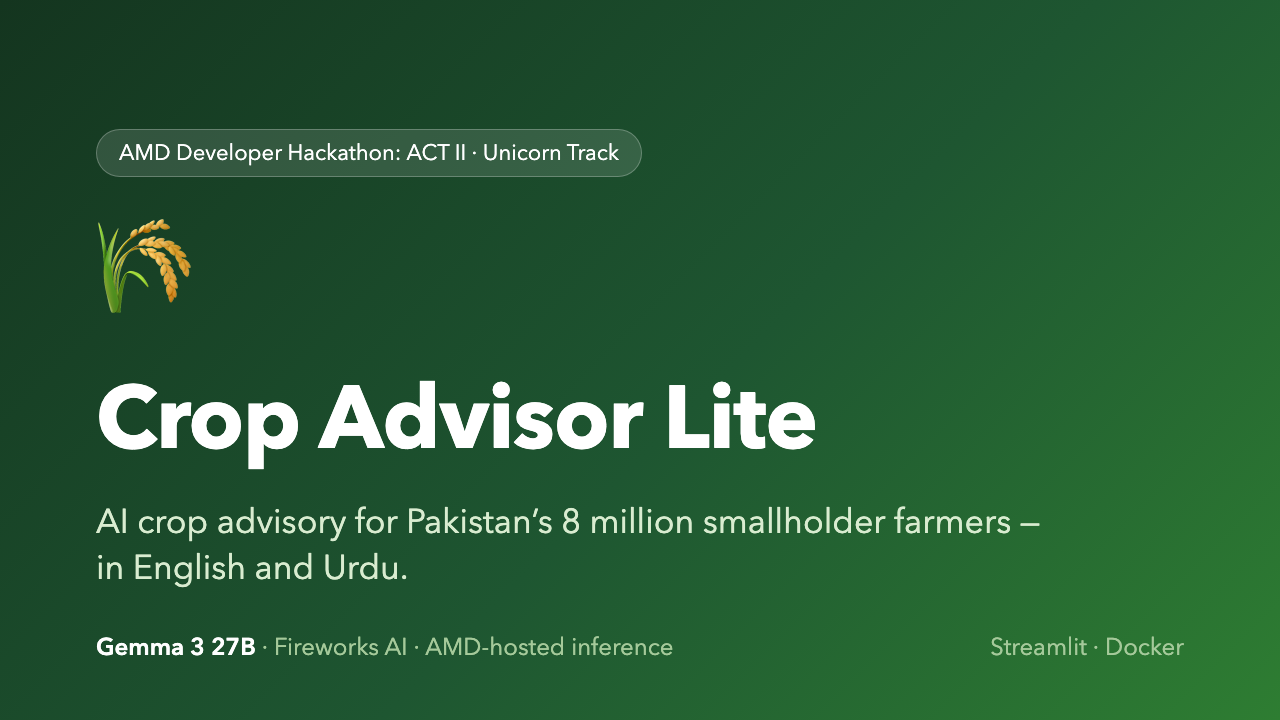
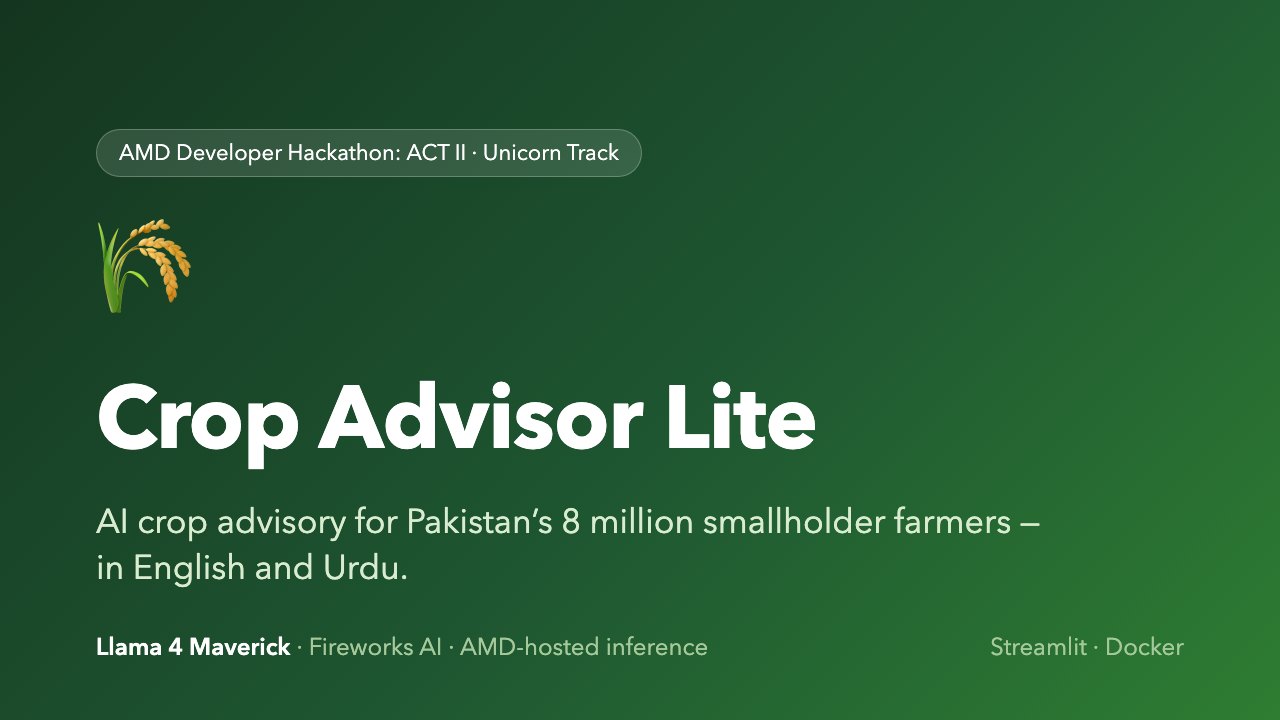
Switch model to Llama 4 Maverick; add e2e smoke test
Gemma 3 is no longer served serverless on Fireworks (404 NOT_FOUND), so the
app, README, cover, and deck now consistently use
accounts/fireworks/models/llama4-maverick-instruct-basic (verified to exist
via 412 probe). FIREWORKS_MODEL env var still overrides.

Changed region(s): [[0.0625, 0.8861, 0.5625, 0.9167]]

diff --git a/assets/deck.html b/assets/deck.html
@@ -48,7 +48,7 @@
   <div class="badge">AMD Developer Hackathon: ACT II &middot; Unicorn Track</div>
   <h1>🌾 Crop Advisor Lite</h1>
   <div class="tag">AI crop advisory for Pakistan&rsquo;s 8&nbsp;million smallholder farmers &mdash; in English and Urdu.</div>
-  <div class="foot"><b>Gemma 3 27B</b> &middot; Fireworks AI (AMD-hosted inference) &middot; Streamlit &middot; Docker</div>
+  <div class="foot"><b>Llama 4 Maverick</b> &middot; Fireworks AI (AMD-hosted inference) &middot; Streamlit &middot; Docker</div>
 </div>
 
 <div class="slide">
@@ -79,7 +79,7 @@
 <div class="slide">
   <h2>Built on AMD</h2>
   <table>
-    <tr><td>Model</td><td><b>Gemma 3 27B Instruct</b> &mdash; Google DeepMind&rsquo;s open-weight model: multilingual, lightweight, ideal for low-cost farmer-facing advice</td></tr>
+    <tr><td>Model</td><td><b>Llama 4 Maverick</b> &mdash; Meta&rsquo;s open-weight model: multilingual (handles Urdu natively), served pay-per-token</td></tr>
     <tr><td>Inference</td><td><b>Fireworks AI API</b> &mdash; AMD-hosted inference for this hackathon; serverless, pay-per-token</td></tr>
     <tr><td>App</td><td>Streamlit (Python) &mdash; chat UI with example prompts in English and Urdu</td></tr>
     <tr><td>Packaging</td><td>Docker &mdash; one command to run anywhere: <span style="font-family:Menlo,monospace;font-size:18px;">docker run -p 8501:8501 -e FIREWORKS_API_KEY=&hellip;</span></td></tr>
@@ -93,7 +93,7 @@
     <li><b>Grounding:</b> retrieval over provincial extension guides and crop calendars, so every answer cites a real source.</li>
     <li><b>Urdu voice:</b> speech in/out for farmers who can&rsquo;t read or type comfortably.</li>
     <li><b>WhatsApp delivery:</b> meet farmers on the platform they already use daily.</li>
-    <li><b>Cost path:</b> Gemma&rsquo;s small footprint on AMD inference keeps per-farmer cost near zero &mdash; the unit economics of free advice.</li>
+    <li><b>Cost path:</b> open-weight models on AMD-hosted inference keep per-farmer cost near zero &mdash; the unit economics of free advice.</li>
   </ul>
   <div class="footer"><span>Crop Advisor Lite &mdash; built solo by a 17-year-old A-level student researching Pakistani agritech</span><span>AMD Developer Hackathon: ACT II</span></div>
 </div>

diff --git a/assets/cover.html b/assets/cover.html
@@ -34,7 +34,7 @@
   <h1>Crop Advisor Lite</h1>
   <div class="tag">AI crop advisory for Pakistan&rsquo;s 8&nbsp;million smallholder farmers &mdash; in English and Urdu.</div>
   <div class="stack">
-    <span><b>Gemma 3 27B</b> &middot; Fireworks AI &middot; AMD-hosted inference</span>
+    <span><b>Llama 4 Maverick</b> &middot; Fireworks AI &middot; AMD-hosted inference</span>
     <span>Streamlit &middot; Docker</span>
   </div>
 </body>

diff --git a/e2e_test.py b/e2e_test.py
@@ -1,0 +1,41 @@
+"""Smoke test: sends the slide-3 question through the same request app.py builds.
+
+Run inside the container:
+  docker run --rm -v "$PWD/e2e_test.py:/app/e2e_test.py" --env-file .env \
+    crop-advisor python e2e_test.py
+"""
+
+import os
+
+import requests
+
+from system_prompt import SYSTEM_PROMPT
+
+QUESTION = (
+    "I have 5 acres in Multan, just harvested wheat. Water is short. "
+    "What should I sow next?"
+)
+
+response = requests.post(
+    "https://api.fireworks.ai/inference/v1/chat/completions",
+    headers={"Authorization": f"Bearer {os.environ['FIREWORKS_API_KEY']}"},
+    json={
+        "model": os.environ.get(
+            "FIREWORKS_MODEL",
+            "accounts/fireworks/models/llama4-maverick-instruct-basic",
+        ),
+        "messages": [
+            {"role": "system", "content": SYSTEM_PROMPT},
+            {"role": "user", "content": QUESTION},
+        ],
+        "max_tokens": 1024,
+        "temperature": 0.6,
+    },
+    timeout=60,
+)
+response.raise_for_status()
+data = response.json()
+print("MODEL:", data.get("model"))
+print("TOKENS:", data.get("usage"))
+print("--- ANSWER ---")
+print(data["choices"][0]["message"]["content"])

diff --git a/app.py b/app.py
@@ -6,7 +6,9 @@ import streamlit as st
 from system_prompt import SYSTEM_PROMPT
 
 FIREWORKS_API_URL = "https://api.fireworks.ai/inference/v1/chat/completions"
-MODEL = os.environ.get("FIREWORKS_MODEL", "accounts/fireworks/models/gemma-3-27b-it")
+MODEL = os.environ.get(
+    "FIREWORKS_MODEL", "accounts/fireworks/models/llama4-maverick-instruct-basic"
+)
 
 EXAMPLE_QUESTIONS = [
     "I have 5 acres in Multan, just harvested wheat. Water is short. What should I sow next?",
@@ -24,7 +26,7 @@ with st.sidebar:
         "sowing windows, and input costs, in English or Urdu."
     )
     st.markdown(
-        "**Stack:** Gemma 3 27B · Fireworks AI API (AMD-hosted inference) · Streamlit"
+        "**Stack:** Llama 4 Maverick · Fireworks AI API (AMD-hosted inference) · Streamlit"
     )
     st.caption(
         "Advisory tool only - confirm pesticide dosages and large decisions with your "

diff --git a/README.md b/README.md
@@ -23,7 +23,7 @@ about uncertainty: it refuses to invent market prices and directs high-stakes de
 
 | Layer | Technology |
 |---|---|
-| Model | **Gemma 3 27B Instruct** (Google DeepMind, open weights) |
+| Model | **Llama 4 Maverick** (Meta, open weights — multilingual, handles Urdu) |
 | Inference | **Fireworks AI API** — AMD-hosted inference for this hackathon |
 | App | Streamlit (Python) |
 | Packaging | Docker |
@@ -52,7 +52,7 @@ streamlit run app.py
 | Env var | Default | Purpose |
 |---|---|---|
 | `FIREWORKS_API_KEY` | — (required) | Your Fireworks AI API key |
-| `FIREWORKS_MODEL` | `accounts/fireworks/models/gemma-3-27b-it` | Override the model |
+| `FIREWORKS_MODEL` | `accounts/fireworks/models/llama4-maverick-instruct-basic` | Override the model |
 
 ## Example questions
 